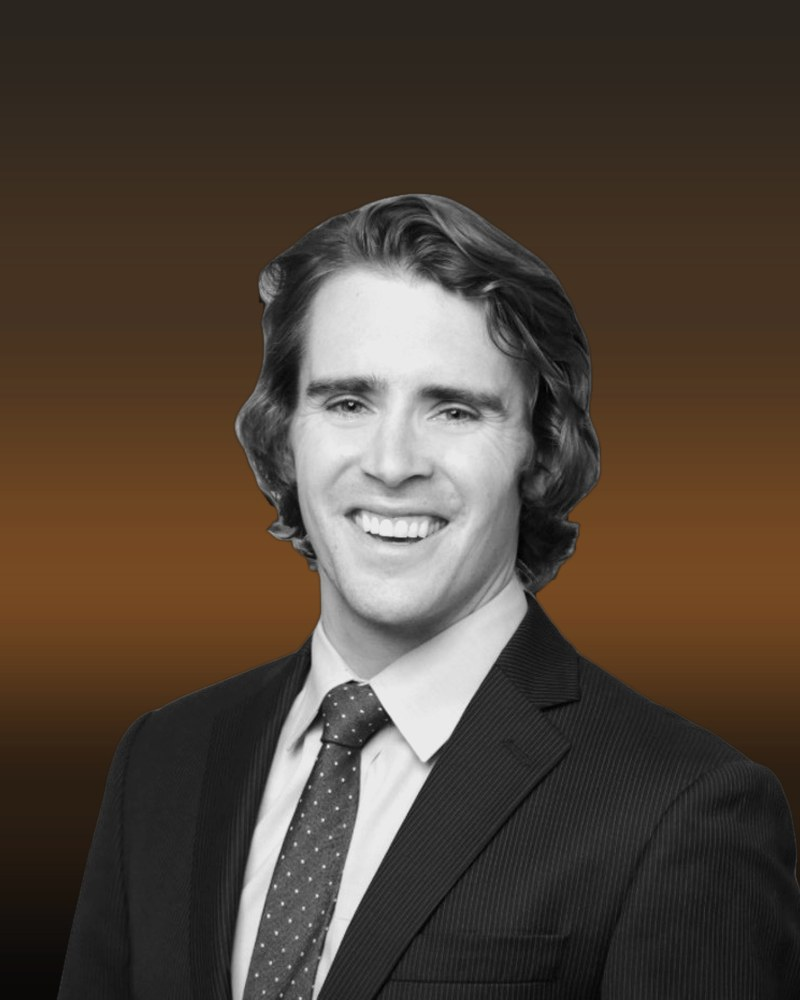
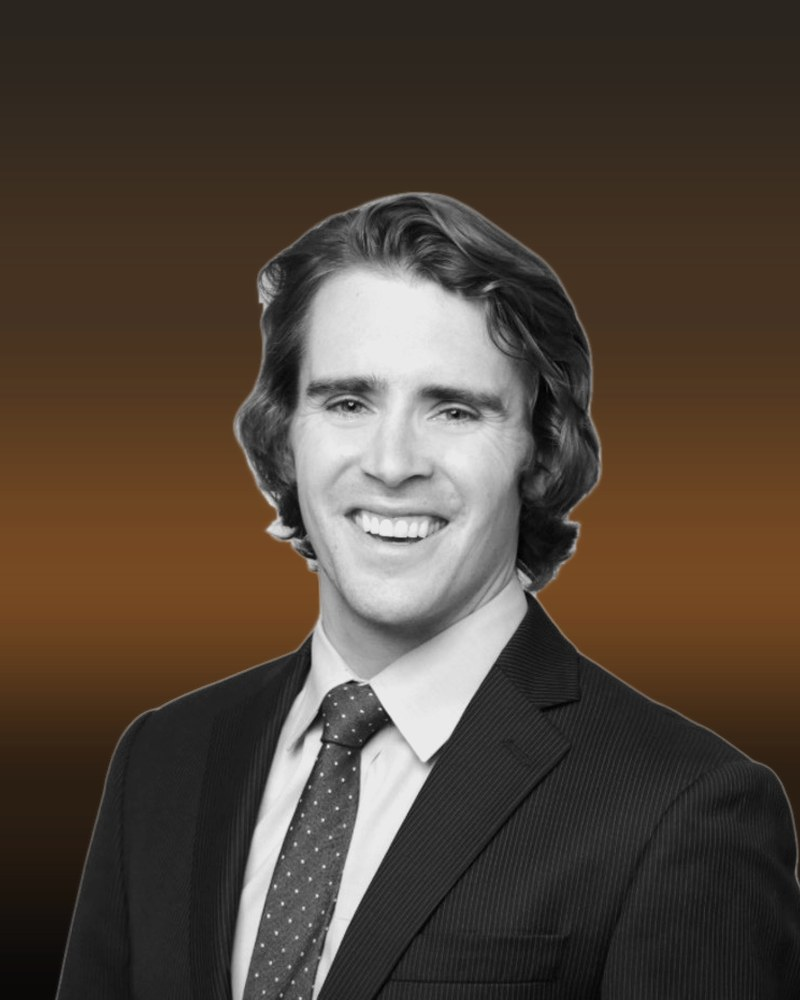
Portraits for Dr. Bethany Sobba-Kunthara and Daisy Walker; fix matte edge on all four
Bethany joins the Executive Committee grid, Daisy the Honorary Chairs row. Both
built to the same 800x1000 spec, framed by matching the medians measured across
the existing portraits (face width 37.9% of frame, centre x 50.3%, centre y
43.8%):
  Bethany  faceW 41.4%, cx 50.2%, cy 44.0%
  Daisy    faceW 36.5%, cx 49.4%, cy 43.6%

Daisy's face would not register with the default Haar cascade. Detected with
frontalface_alt instead and the width calibrated by the two cascades' measured
ratio (1.025 across 16 images), so she is framed on the same yardstick as
everyone else rather than by a different ruler.

Also rebuilds duncan-hussey.jpg and mafara-hobson.jpg, which shipped yesterday
with a fine dark rim around the silhouette. Cause: rembg returns PREMULTIPLIED
alpha (measured on a hair edge: alpha 59 with RGB 43, alpha 162 with RGB 116),
and the matte cleanup promotes interior pixels to alpha 255. Any pixel whose
original alpha was partial therefore kept its darkened premultiplied colour at
full opacity and composited as a dark band just inside the outline. Fixed by
un-premultiplying against the RAW alpha before the cleanup runs. Measured on
Bethany's hair edge: the profile used to dip to luma 35 against a background of
54, it now rises monotonically with a floor of 55.

Claude-Session: https://claude.ai/code/session_012oUJujBpYrLLTaXGPmzdmA

diff --git a/index.html b/index.html
@@ -1456,7 +1456,7 @@ details.hc-more.closing .more { display:inline; }
       </article>
 
       <article class="team-card">
-        <div class="team-portrait team-portrait--initials" aria-hidden="true">DW</div>
+        <div class="team-portrait team-portrait--photo"><img src="/images/prototype/daisy-walker.jpg" alt="Daisy Walker" loading="lazy" decoding="async" width="78" height="78" /></div>
         <div class="team-meta">
           <p class="kin">Grandmother</p>
           <p class="name">Daisy Walker</p>
@@ -1511,7 +1511,7 @@ details.hc-more.closing .more { display:inline; }
       </article>
 
       <article class="advisor-card">
-        <div class="advisor-avatar" aria-hidden="true">BS</div>
+        <img src="/images/prototype/bethany-sobba-kunthara.jpg" alt="Dr. Bethany Sobba-Kunthara" loading="lazy" decoding="async" width="56" height="56" />
         <p class="name">Dr. Bethany Sobba-Kunthara</p>
       </article>
 
